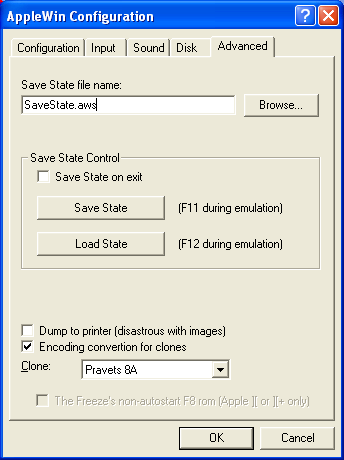
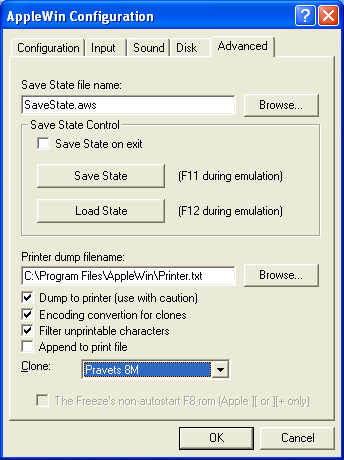
*Clone suppport:   Added support for Pravets 8M * Printer support: - selectable printer file - printing to printer - character convertion for clones (MIK to ASCII) - filtering unprintable characters - appending/ overwriting printer file selectable

diff --git a/help/cfg-advanced.html b/help/cfg-advanced.html
@@ -3,7 +3,6 @@
 <meta http-equiv="Content-Type" content="text/html; charset=windows-1252"><title>Advanced Settings</title>
 
 </head>
-
 <body style="background-color: rgb(255, 255, 255); font-family: verdana;" alink="#008000" link="#008000" vlink="#008000">
 <h2 style="color: rgb(0, 128, 0);">Advanced Settings</h2>
 <hr size="4"><img style="width: 344px; height: 460px; float: right;" src="img/advanced.png" alt="Advanced settings" hspace="5" vspace="5">
@@ -27,14 +26,36 @@ If you have specified Computer as 'Clone' on the main Configuration
 page, then this drop-down menu can be used to specify the clone type.<br>
 NB. Pravets 82 and 8A are Bulgarian Apple II clones.<br>
 </p>
-<p><strong>Dump to printer:<br>
-</strong>Enables dumping to a real printer. If disabled, the
-printout is stored only in printer.txt file in the AppleWin folder.<br>
-Printer is emulated at slot 1.</p>
-<p><strong>Encoding convertion for clones:<br>
+<p><strong>Printer settings </strong>(Printer is
+emulated at slot 1)</p>
+<p style="margin-left: 40px;"><strong>Printer dump filename:<br>
+</strong>Data sent to the printer is stored in a text file. Use
+this setting to select its location.<br>
+</p>
+<p style="margin-left: 40px;"><strong>Dump to printer:<br>
+</strong><span style="font-weight: bold; font-style: italic;">Use
+with caution!</span> Enables dumping to a real printer. If
+disabled, the
+printout is stored only in printer.txt file in the AppleWin folder.
+This probably works properly (not tested) when using a printer
+compatible with the printer selected in the Apple II applications. In
+modern printers trying to print images will result in printing tens of
+pages with nonsense.<br>
+</p>
+<p style="margin-left: 40px;"><strong>Encoding convertion for clones:<br>
 </strong>Characters are encoded from the character set used in
-the real hardware to ASCII. For Pravets II this converts MIK to ASCII.
-Enabling this could cause problems when converting printing images.<br>
+the real hardware to ASCII. For Pravets 8 this converts MIK to ASCII.
+Enabling this could cause problems when&nbsp;printing images.</p>
+<p style="margin-left: 40px;"><strong>Filter unprintable characters:<br>
+</strong>Some characters represent commands for the printer and
+shall not be printed. When saving them to the printer dump file they
+may appear as some strange symbols. I may want to disable filtering
+when dumping to printer.</p><p style="margin-left: 40px;"><strong>Append to printfile:<br>
+</strong>When disabled previous print file is replaced (unless it has a
+different&nbsp;name) by the newly created print file. Otherwise newly
+printed data is added to the existing print file.&nbsp;I should better
+disable appending
+when dumping to printer.
 </p>
 <p><strong>The Freeze's non-autostart F8 rom:</strong><br>
 If you have specified Computer as 'Apple ][' or 'Apple ][+' on the main

diff --git a/source/PropertySheetPage.cpp b/source/PropertySheetPage.cpp
@@ -1066,8 +1066,14 @@ static void AdvancedDlg_OK(HWND window, UINT afterclose)
 	SAVE(TEXT(REGVALUE_SAVE_STATE_ON_EXIT), g_bSaveStateOnExit ? 1 : 0);
 	g_bDumpToPrinter = IsDlgButtonChecked(window, IDC_DUMPTOPRINTER ) ? true : false;
 	SAVE(TEXT(REGVALUE_DUMP_TO_PRINTER), g_bDumpToPrinter ? 1 : 0);
-	g_bConvertEncoding = IsDlgButtonChecked(window, IDC_CONVERT_ENCODING ) ? true : false;
+	g_bConvertEncoding = IsDlgButtonChecked(window, IDC_PRINTER_CONVERT_ENCODING ) ? true : false;
 	SAVE(TEXT(REGVALUE_CONVERT_ENCODING), g_bConvertEncoding ? 1 : 0);
+
+	g_bFilterUnprintable = IsDlgButtonChecked(window, IDC_PRINTER_FILTER_UNPRINTABLE ) ? true : false;
+	SAVE(TEXT(REGVALUE_FILTER_UNPRINTABLE), g_bFilterUnprintable ? 1 : 0);
+
+	g_bPrinterAppend = IsDlgButtonChecked(window, IDC_PRINTER_APPEND) ? true : false;
+	SAVE(TEXT(REGVALUE_PRINTER_APPEND), g_bPrinterAppend ? 1 : 0);
 	//
 
 	DWORD NewCloneType = (DWORD)SendDlgItemMessage(window, IDC_CLONETYPE, CB_GETCURSEL, 0, 0);
@@ -1172,15 +1178,9 @@ static BOOL CALLBACK AdvancedDlgProc (HWND   window,
 				SendDlgItemMessage(window, IDC_SAVESTATE_FILENAME, WM_SETTEXT, 0, (LPARAM) g_szNewFilename);
 			break;
 		case IDC_DUMP_FILENAME_BROWSE:
-			{
-				//string CiderPressLoc = BrowseToCiderPress(window, TEXT("Select path to CiderPress"));
-				/*string PrinterDumpLoc = BrowseToFile (window, TEXT("Select printer dump file"), REGVALUE_PRINTER_FILENAME, TEXT("Text files (*.txt)\0*.txt\0") TEXT("All Files\0*.*\0"));
-				RegSaveString(TEXT("Configuration"),REGVALUE_PRINTER_FILENAME,1,PrinterDumpLoc.c_str());
-				SendDlgItemMessage(window, IDC_DUMP_FILENAME, WM_SETTEXT, 0, (LPARAM) PrinterDumpLoc.c_str());
-				Printer_SetFilename (PrinterDumpLoc.c_str());*/
+			{				
 				char PrinterDumpLoc[MAX_PATH] = {0};
 				strcpy(PrinterDumpLoc, BrowseToFile (window, TEXT("Select printer dump file"), REGVALUE_PRINTER_FILENAME, TEXT("Text files (*.txt)\0*.txt\0") TEXT("All Files\0*.*\0")).c_str());
-				//PrinterDumpLoc = BrowseToFile (window, TEXT("Select printer dump file"), REGVALUE_PRINTER_FILENAME, TEXT("Text files (*.txt)\0*.txt\0") TEXT("All Files\0*.*\0"));
 				RegSaveString(TEXT("Configuration"),REGVALUE_PRINTER_FILENAME,1,PrinterDumpLoc);
 				SendDlgItemMessage(window, IDC_DUMP_FILENAME, WM_SETTEXT, 0, (LPARAM) PrinterDumpLoc);
 				Printer_SetFilename (PrinterDumpLoc);
@@ -1226,6 +1226,10 @@ static BOOL CALLBACK AdvancedDlgProc (HWND   window,
 
 		SendDlgItemMessage(window,IDC_SAVESTATE_FILENAME,WM_SETTEXT,0,(LPARAM)Snapshot_GetFilename());
 		CheckDlgButton(window, IDC_SAVESTATE_ON_EXIT, g_bSaveStateOnExit ? BST_CHECKED : BST_UNCHECKED);
+		CheckDlgButton(window, IDC_DUMPTOPRINTER, g_bDumpToPrinter ? BST_CHECKED : BST_UNCHECKED);
+		CheckDlgButton(window, IDC_PRINTER_CONVERT_ENCODING, g_bConvertEncoding ? BST_CHECKED : BST_UNCHECKED);
+		CheckDlgButton(window, IDC_PRINTER_FILTER_UNPRINTABLE, g_bFilterUnprintable ? BST_CHECKED : BST_UNCHECKED);
+		CheckDlgButton(window, IDC_PRINTER_APPEND, g_bPrinterAppend ? BST_CHECKED : BST_UNCHECKED);
 
 		SendDlgItemMessage(window,IDC_DUMP_FILENAME,WM_SETTEXT,0,(LPARAM)Printer_GetFilename());
 		//CheckDlgButton(window, IDC_SAVESTATE_ON_EXIT, g_bSaveStateOnExit ? BST_CHECKED : BST_UNCHECKED);
@@ -1605,7 +1609,7 @@ string BrowseToFile (HWND hWindow, TCHAR* pszTitle, TCHAR* REGVALUE,TCHAR* FILEM
 	}
 	else //Cancel is pressed.
 	{
-		RegLoadString(TEXT("Configuration"), REGVALUE_CIDERPRESSLOC, 1, szFilename,MAX_PATH);
+		RegLoadString(TEXT("Configuration"), REGVALUE, 1, szFilename,MAX_PATH);
 		PathName = szFilename;
 	}
 	strcpy(g_szNewFilename, PathToFile); //RAPCS, line 3 (last).

diff --git a/source/Keyboard.cpp b/source/Keyboard.cpp
@@ -201,24 +201,37 @@ void KeybQueueKeypress (int key, BOOL bASCII)
 			}
 			
 			//Remap some keys for Pravets82/M
-			if ((g_Apple2Type == A2TYPE_PRAVETS82) || (g_Apple2Type == A2TYPE_PRAVETS8M))
+			if (g_Apple2Type == A2TYPE_PRAVETS82)
 			{
-				if (key == 64) 
-					keycode = 96;
-				if (key == '^') 
-					keycode = '~';	
+				if (key == 64) keycode = 96;
+				if (key == '^')	keycode = '~';	
 						
-				if (g_bCapsLock == false) //i.e. cyrillic letters
+				if (g_bCapsLock == false) //cyrillic letters
 				{
 					if (key == '`') keycode = '^';
 					if (key == 92) keycode = '@'; // \ to @	
 					if (key == 124) keycode = 92;
 				}
-				else //(g_bCapsLock == true) //i.e. latin letters
+				else //(g_bCapsLock == true) //latin letters
 				{
 				if (key == 91) keycode = 123;
 				if (key == 93) keycode = 125;
 				if (key == 124) keycode = 92;					
+				}
+			}
+			if (g_Apple2Type == A2TYPE_PRAVETS8M)  //Pravets 8M charset is still uncertain
+			{
+				if (g_bCapsLock == false) //cyrillic letters
+				{
+					if (key == '[') keycode = '{';
+					if (key == ']') keycode = '}';
+					if (key == '`') keycode = '~'; //96= key `~
+					if (key == 92) keycode = 96;
+				}
+				else //latin letters
+				{
+					if (key == '`') 
+						keycode = '^'; //96= key `~
 				}
 			}
 			//Remap some keys for Pravets8A/C, which has a different charset for Pravtes82/M, whose keys MUST NOT be remapped.

diff --git a/source/Common.h b/source/Common.h
@@ -90,7 +90,9 @@ enum AppMode_e
 #define  REGVALUE_CIDERPRESSLOC      "CiderPress Location"
 #define  REGVALUE_DUMP_TO_PRINTER    "Dump to printer"
 #define  REGVALUE_CONVERT_ENCODING   "Convert printer encoding for clones"
+#define  REGVALUE_FILTER_UNPRINTABLE "Filter unprintable characters"
 #define  REGVALUE_PRINTER_FILENAME   "Printer Filename"
+#define  REGVALUE_PRINTER_APPEND     "Append to printer file"
 
 // Preferences 
 #define REGVALUE_PREF_START_DIR      "Starting Directory"

diff --git a/source/Applewin.cpp b/source/Applewin.cpp
@@ -456,6 +456,12 @@ void LoadConfiguration ()
    if(LOAD(TEXT(REGVALUE_CONVERT_ENCODING), &dwTmp))
 	  g_bConvertEncoding = dwTmp ? true : false;
 
+    if(LOAD(TEXT(REGVALUE_FILTER_UNPRINTABLE), &dwTmp))
+	  g_bFilterUnprintable = dwTmp ? true : false;
+
+	if(LOAD(TEXT(REGVALUE_PRINTER_APPEND), &dwTmp))
+	  g_bPrinterAppend = dwTmp ? true : false;
+
   if(LOAD(TEXT(REGVALUE_HDD_ENABLED), &dwTmp))
 	  HD_SetEnabled(dwTmp ? true : false);
 

diff --git a/resource/resource.h b/resource/resource.h
@@ -88,7 +88,9 @@
 #define IDC_DUMPTOPRINTER               1051
 #define IDC_DUMP_FILENAME               1052
 #define IDC_DUMP_FILENAME_BROWSE        1053
-#define IDC_CONVERT_ENCODING            1054
+#define IDC_PRINTER_CONVERT_ENCODING    1054
+#define IDC_PRINTER_FILTER_UNPRINTABLE  1055
+#define IDC_PRINTER_APPEND				1056
 
 #define IDM_EXIT                        40001
 #define IDM_HELP                        40002

diff --git a/source/ParallelPrinter.h b/source/ParallelPrinter.h
@@ -8,4 +8,6 @@ void    Printer_SetFilename(char* pszFilename);
 char*   Printer_GetFilename();
 extern bool       g_bDumpToPrinter;
 extern bool       g_bConvertEncoding;
+extern bool       g_bFilterUnprintable;
+extern bool       g_bPrinterAppend;
 
